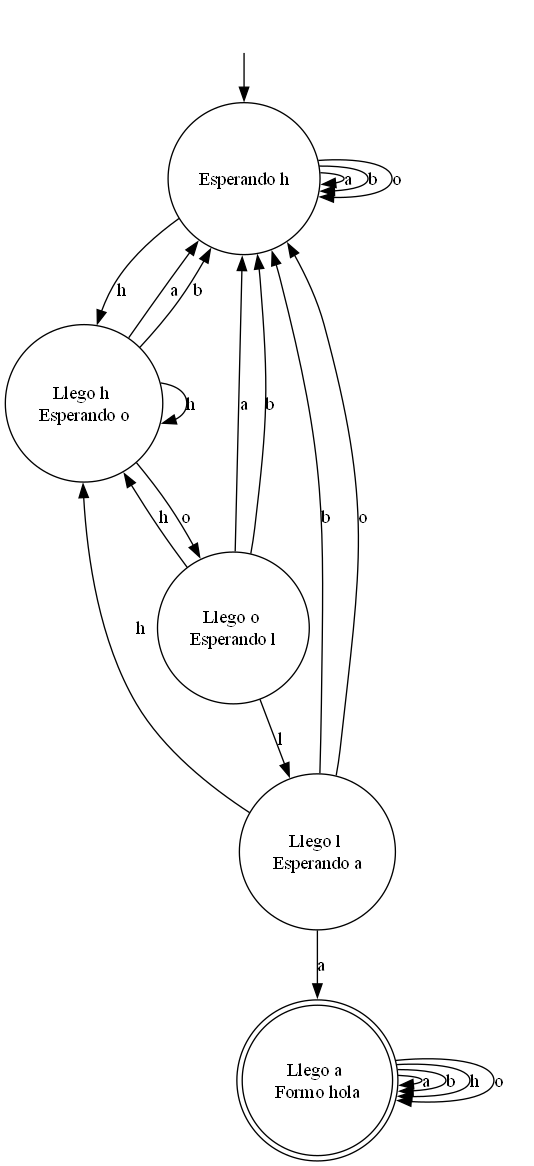
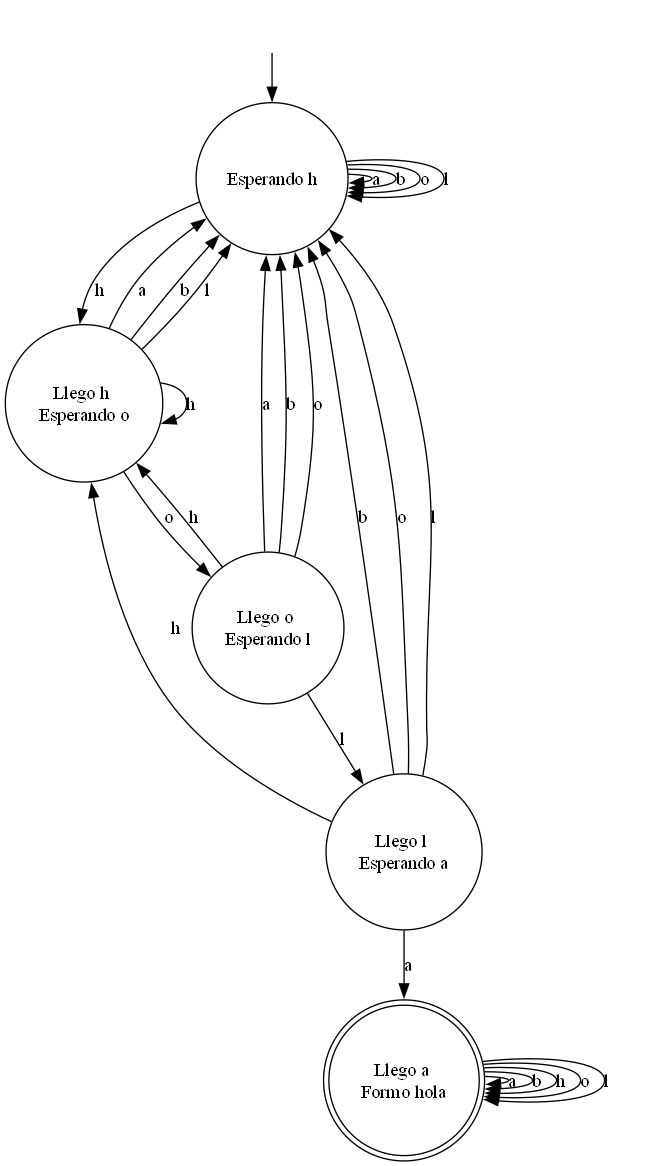
Cambios en el README

diff --git a/README.md b/README.md
@@ -69,10 +69,10 @@ fauna/
 ## Ejecución
 
 Desde la raíz del proyecto ejecutar  
-  python src\dfa\fauna_main.py examples\dfa2.json
+  python src\dfa\fauna_main.py examples\contador_hola.json
 
 Para ejecutar una cadena sobre el DFA, se agrega como segundo argumento:  
-python src\dfa\fauna_main.py examples\dfa2.json aab
+python src\dfa\fauna_main.py examples\contador_hola.json xiosnhola
 
 El programa genera la imagen y además indica si la cadena es ACEPTADA o RECHAZADA.
 